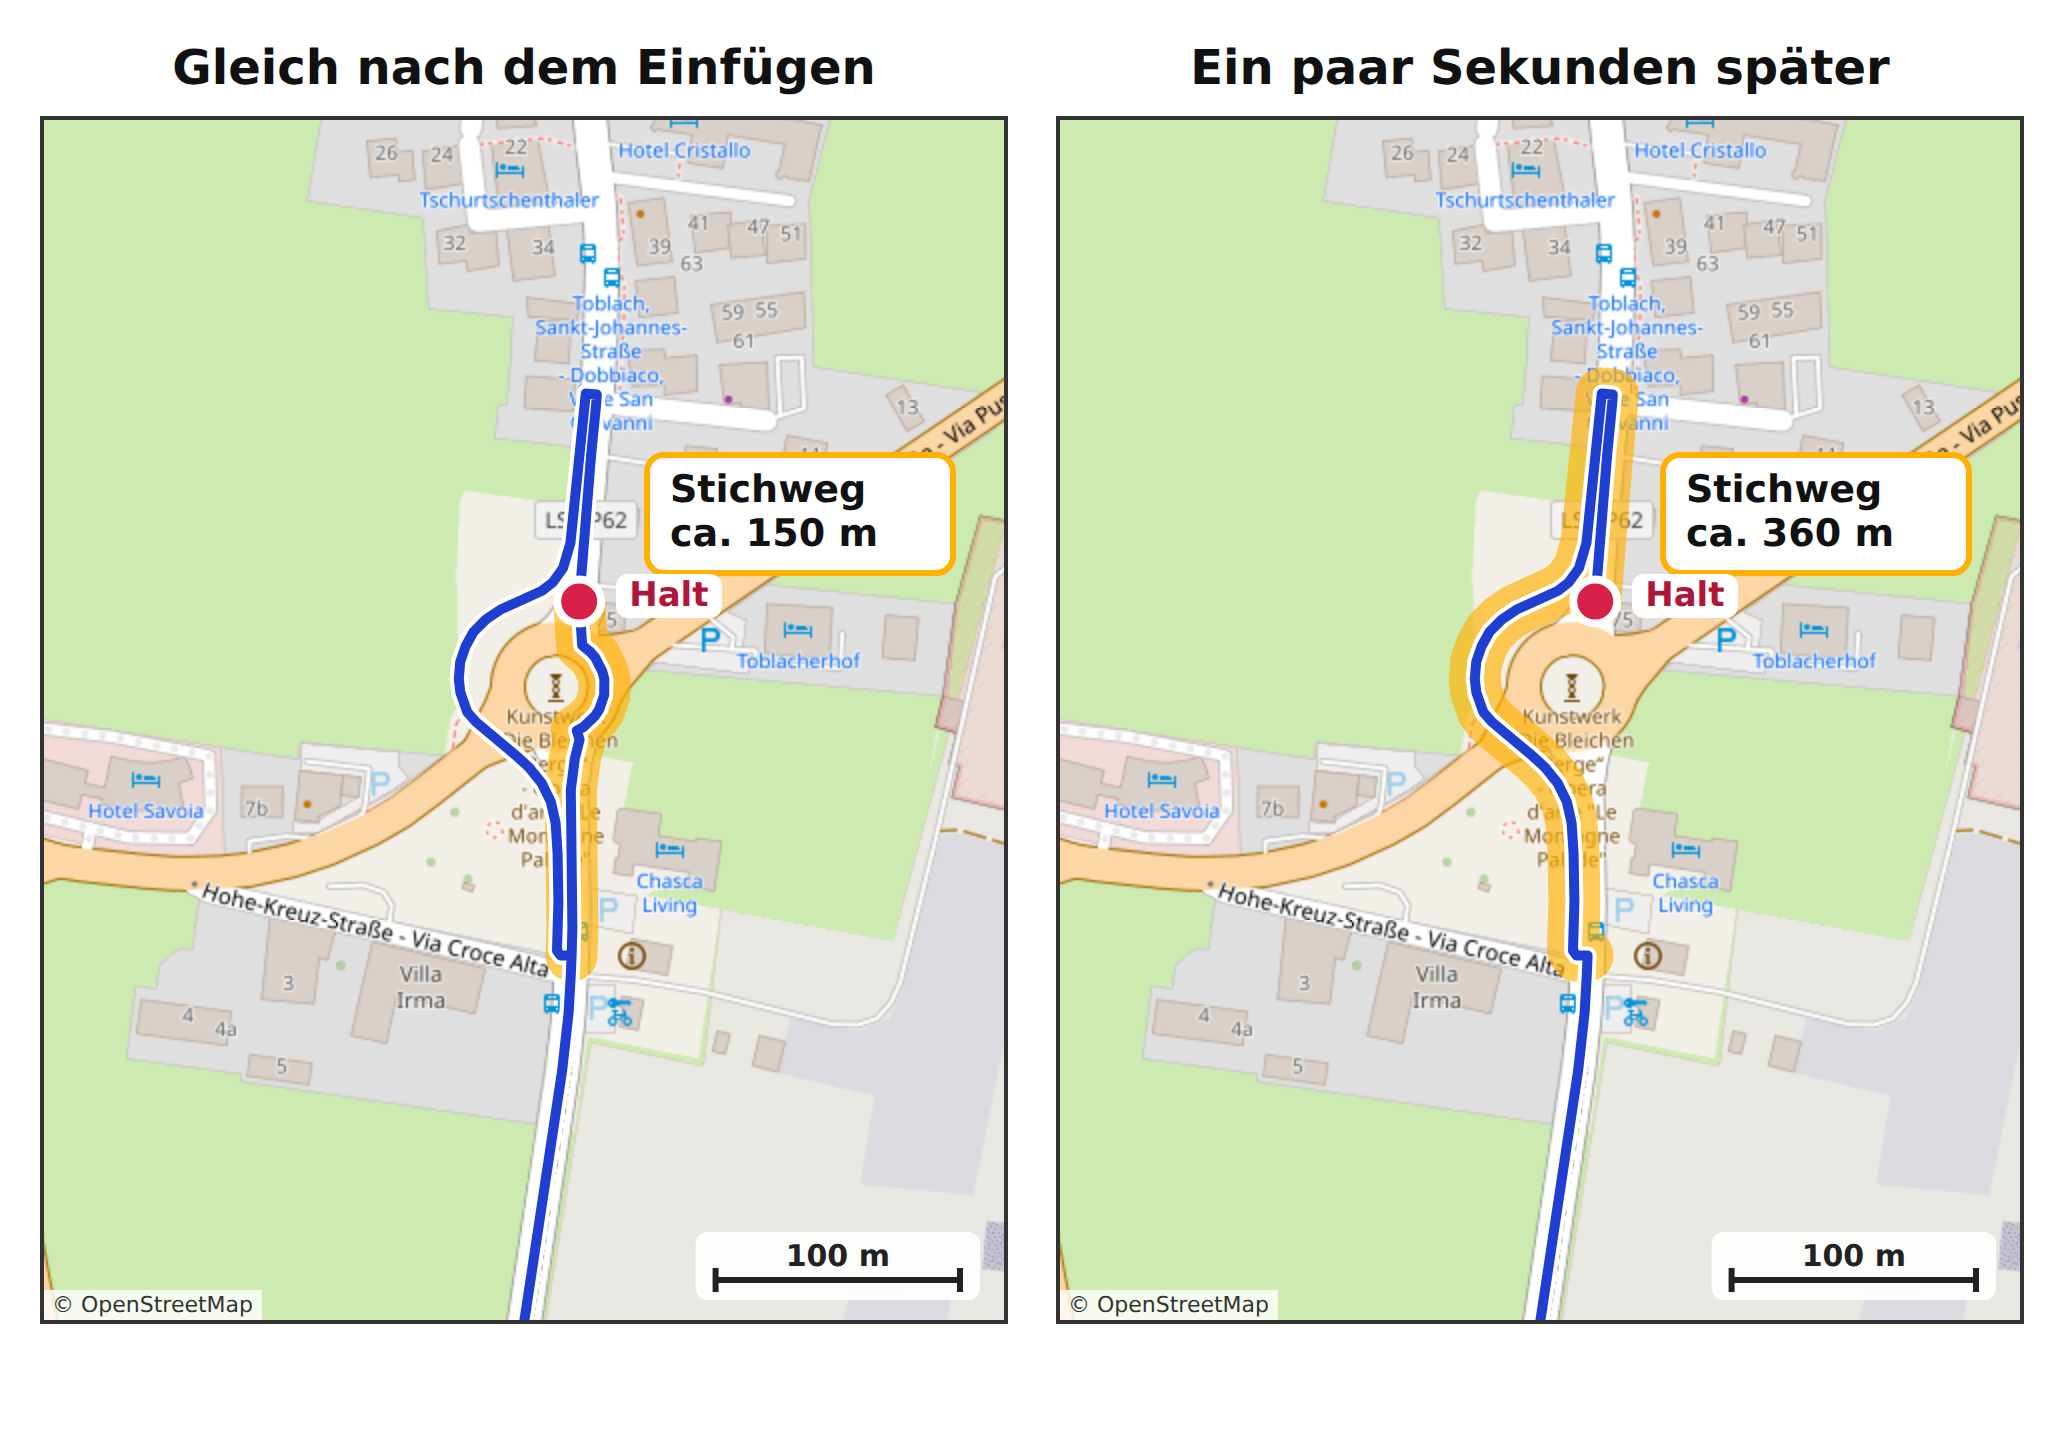
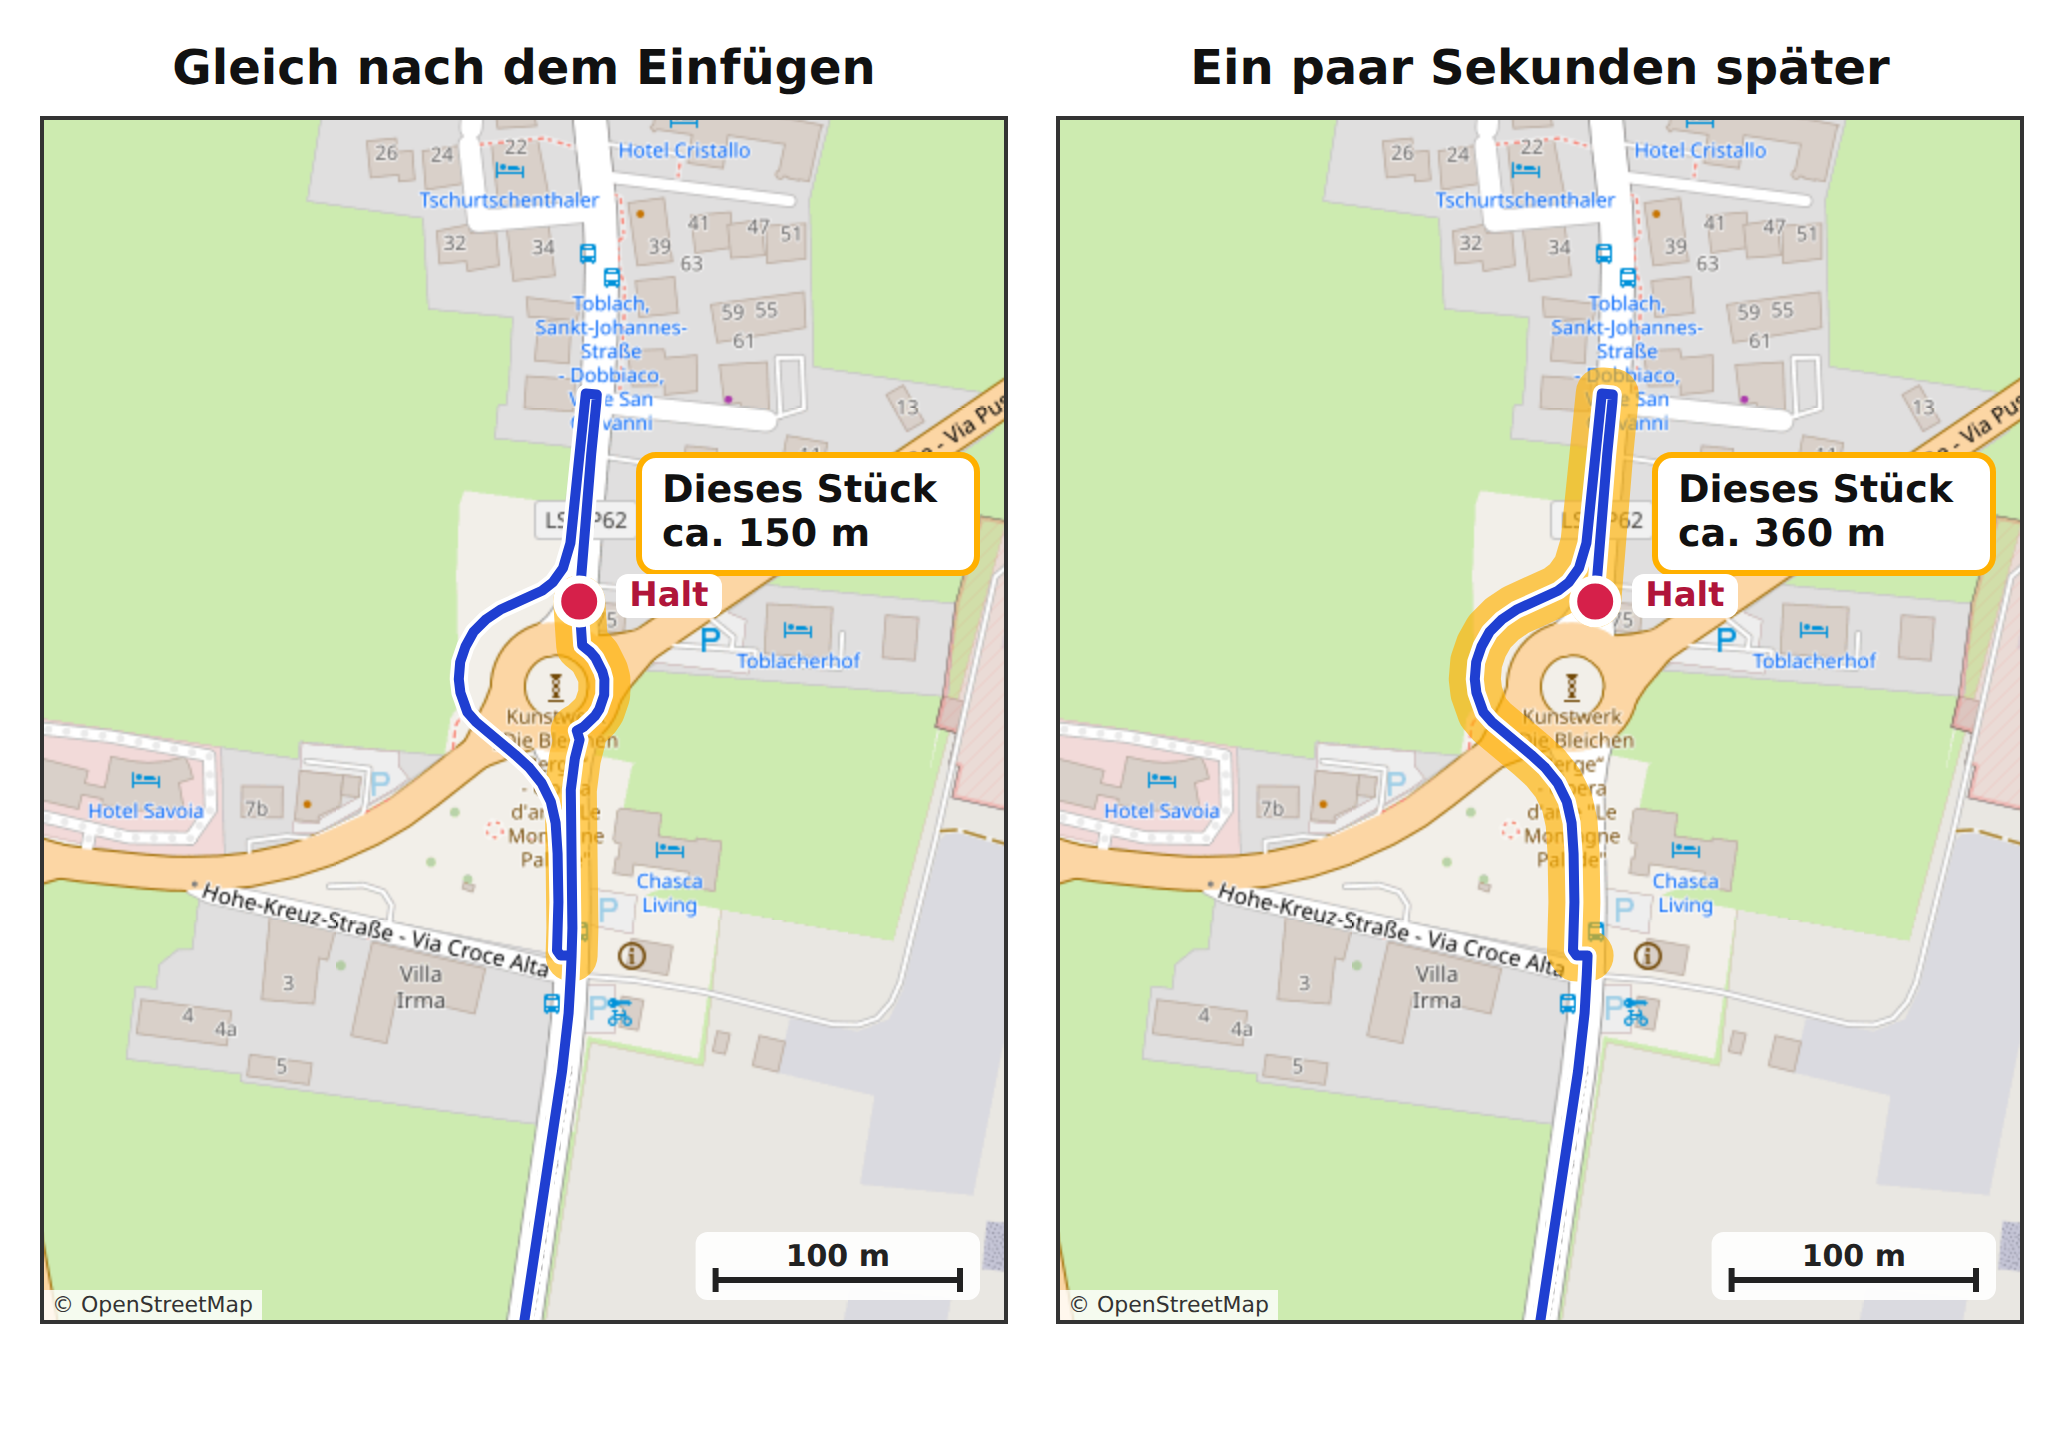
Sketch: the label says what differs (the stretch at the roundabout, not a side path)

Changed region(s): [[0.7752, 0.3125, 0.9922, 0.4062], [0.3101, 0.3125, 0.4961, 0.4062]]

diff --git a/docs/sketches/2026-11-21-same-route/README.md b/docs/sketches/2026-11-21-same-route/README.md
@@ -1,3 +1,3 @@
 Two panels, same map frame: the route at the Pustertal stop (near 46.7297, 12.2236) right after adding a point, and a few seconds later.
-The side path into the stop is about 150 m (153 m measured) first and about 360 m (361 m measured) after the background calculation.
+At the roundabout in Toblach the line takes another side: the stretch that differs (amber) is about 150 m (153 m measured) first and about 360 m (361 m measured) after the background calculation.
 Both lines are real BRouter output from SameRouteTest (case add02, Muenchen-Venezia Bike, commit a8ed3a939), not drawn by hand; map: OpenStreetMap tiles.
